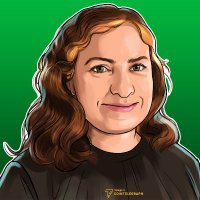
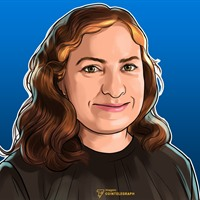
hello world deploy on day 2, getsecrets on use case 2 and Sol review

diff --git a/book/src/day-2/01-hello-confidential-workflows.md b/book/src/day-2/01-hello-confidential-workflows.md
@@ -2,7 +2,11 @@
 
 > Template source: [`cre-templates/starter-templates/hello-confidential-workflows`](https://github.com/smartcontractkit/cre-templates/tree/main/starter-templates/hello-confidential-workflows) (available in TypeScript and Go; the two implementations are behaviorally equivalent)
 
-Before we get into the theory of confidential computing, let's run the smallest possible Confidential Workflow end to end. It takes only 4 steps: clone the repo → configure the environment → simulate → (optionally) deploy.
+This is the smallest possible Confidential Workflow end to end, to be focused in the deploy part. It takes only 4 steps: 
+1. clone the repo
+2. configure the environment variables
+3. simulate
+4. deploy
 
 ## What This Workflow Does
 
@@ -23,24 +27,36 @@ Concretely, on every CRON tick the workflow:
 4. Scores the confidential response against `scoreThreshold` → verdict `APPROVE` / `REJECT`
 5. Crosses back to the DON with `usingTheDons()` and generates a signed report containing **only the verdict and score** — never the secret or the raw response body
 
-The default endpoint is `https://postman-echo.com/headers`, which echoes request headers back — no signup or real API key needed. The workflow uses it to confirm the secret really was injected inside the enclave, reported as the boolean `secret reached API: true` rather than by ever logging the token.
+The default endpoint is [`https://postman-echo.com/headers`](https://postman-echo.com/headers), which echoes request headers back — no signup or real API key needed. The workflow uses it to confirm the secret really was injected inside the enclave, reported as the boolean `secret reached API: true` rather than by ever logging the token.
 
-## Simulate the Workflow
+## Prepare the Workflow
 
 ### Step 1: Clone the Templates Repo
+
+We will use the TypeScript version.
 
 ```bash
 git clone https://github.com/smartcontractkit/cre-templates.git
 cd cre-templates/starter-templates/hello-confidential-workflows/hello-confidential-workflows-ts
 ```
 
-### Step 2: Set Up Environment Variables
+### Step 2: Install Dependencies
+
+```bash
+bun install --cwd ./my-workflow
+```
+
+### Step 3: Set Up Environment Variables
+
+Copy the example environment variables file to a new file named `.env`.
 
 ```bash
 cp .env.example .env
 ```
 
-Then set `SECRET_API_TOKEN` in `.env` — with the default echo endpoint, any non-empty value works. The `secrets.yaml` at the project root maps the workflow-facing secret ID to that environment variable:
+In this basic example, using the default echo endpoint, the `SECRET_API_TOKEN` in `.env` can be any non-empty value, it doesn't have to be a real API token.
+
+The `secrets.yaml` at the project root maps the workflow-facing secret ID to that environment variable:
 
 ```yaml
 secretsNames:
@@ -48,15 +64,11 @@ secretsNames:
         - SECRET_API_TOKEN
 ```
 
-> **Note**: In local simulation the CRE CLI injects secret values from `.env` according to this mapping. In a real deployment, the same secret ID (`API_TOKEN`) is resolved from the Vault DON instead — your workflow code doesn't change. That's why deployment requires an extra step (see below).
+> **Note**: In local simulation the CRE CLI injects secret values from `.env` according to this mapping. 
+> In a real deployment, the same secret ID (`API_TOKEN`) is resolved from the Vault DON instead — your workflow code doesn't change. 
+> Deployment requires an extra step, which will also be covered later.
 
-### Step 3: Install Dependencies
-
-```bash
-cd my-workflow && bun install && cd ..
-```
-
-### Step 4: Simulate
+## Simulate the Workflow
 
 From the project root, start the simulation with the CRE CLI:
 
@@ -87,21 +99,37 @@ You'll see output similar to:
 
 - The simulator confirms the TEE constraint it resolved (**AWS Nitro in us-west-2**) and warns that **it is not a real enclave** — logs are shown for debugging only; in real execution they never leave the TEE.
 - `secret reached API: true` means the Vault DON secret was fetched inside the enclave and arrived in the outbound request's `Authorization` header.
-- The verdict can flip between `APPROVE` and `REJECT` from run to run — the score derives from the live response body, and the echo endpoint includes a per-request trace ID. Lower `scoreThreshold` in `config.staging.json` to see `APPROVE` consistently.
+- The verdict can flip between `APPROVE` and `REJECT` from run to run — the score derives from the live response body, and the echo endpoint includes a per-request trace ID. 
+- Lower `scoreThreshold` in [`my-workflow/config.staging.json`]() to see `APPROVE` consistently.
 
 ## Deploy the Workflow
 
-Deployment takes 3 steps: add the secret to the Vault DON → deploy → verify. We'll use the **private registry** (authorized by your CRE login session — no wallet, no gas).
+Deployment takes 3 steps: 
+1. add the secret to the Vault DON
+2. deploy
+3. verify. 
+
+### Private Registry
+
+We'll use the **private registry** (authorized by your CRE login session — no wallet, no gas).
+
+The [private registry](https://docs.chain.link/cre/guides/operations/deploying-to-private-registry-ts) is a Chainlink-hosted, offchain workflow registry.
+
+All lifecycle operations (deploy, activate, pause, delete, update) are authorized by your CRE login session.
+You do not need to settup a wallet and there are no Ethereum Mainnet transactions and no gas fees for registry management.
 
 ### Step 1: Add the Secret to the Vault DON (Before Deploying!)
 
-A deployed workflow **cannot read your local `.env` file** — it fetches secrets from the Vault DON at runtime. So before deploying, you must store `API_TOKEN` in the Vault DON. Make sure `SECRET_API_TOKEN` is set in your `.env`, then run:
+A deployed workflow **cannot read your local `.env` file** — it fetches secrets from the Vault DON at runtime. 
+
+Before deploying, you must store `API_TOKEN` in the Vault DON. Execute the secret creation:
 
 ```bash
 cre secrets create secrets.yaml --target staging-settings --secrets-auth=browser
 ```
+> **Alert** Make sure `SECRET_API_TOKEN` is set in your `.env` before executing the command above!
 
-The CLI reads `secrets.yaml`, picks up the value from `SECRET_API_TOKEN` in `.env`, opens a browser window to authorize against the Vault DON with your CRE login session, and stores the secret. You'll see:
+The CLI reads `secrets.yaml`, picks up the value from `SECRET_API_TOKEN` in `.env`, opens a browser window to authorize against the Vault DON with your CRE login session, and stores the secret. When it's over, you'll see:
 
 ```bash
 Secret created: secret_id=API_TOKEN, owner=<your-organization-owner>, namespace=main
@@ -117,7 +145,11 @@ cre secrets list --target staging-settings --secrets-auth=browser
 
 ### Step 2: Deploy
 
-Add `deployment-registry: "private"` under `user-workflow` in `my-workflow/workflow.yaml`:
+Verify if the configuration file `workflow.yaml` is already prepared for deployment.
+
+Go to `staging-settings`, `user-workflow`.
+
+Add or update `deployment-registry: "private"`:
 
 ```yaml
 staging-settings:
@@ -126,7 +158,7 @@ staging-settings:
     deployment-registry: "private"
 ```
 
-Then deploy from the project root:
+Then **deploy** from the project root:
 
 ```bash
 cre workflow deploy my-workflow --target staging-settings
@@ -151,8 +183,17 @@ Details:
 
 ### Step 3: Verify and Manage
 
+Confirm it's registered and active:
+
 ```bash
-cre workflow list --registry private        # confirm it's registered and Active
+cre workflow list --registry private
+```
+
+You can also check it out on [CRE workflows](https://app.chain.link/cre/workflows)
+
+Manage your workflow:
+
+```bash
 cre workflow pause my-workflow --target staging-settings     # pause
 cre workflow activate my-workflow --target staging-settings  # resume
 cre workflow delete my-workflow --target staging-settings    # permanently remove
@@ -161,6 +202,14 @@ cre workflow delete my-workflow --target staging-settings    # permanently remov
 The workflow now runs on its CRON schedule: every execution happens inside a real enclave, fetches `API_TOKEN` from the Vault DON, and produces a DON-signed report.
 
 > ⚠ **Production reminder**: the template logs `Enclave computation complete. verdict=...` inside the enclave for debugging. Remove every `runtime.log()` inside the TEE handler before any real deployment — anything logged from within a Confidential Workflow could leak the data the enclave is meant to protect.
+
+### Clean up 
+
+This workflow is intended solely to cover the deployment process, so it is best practice to remove it after learning the process:
+
+```bash
+cre workflow delete my-workflow --target staging-settings
+```
 
 ## Key Takeaways
 
@@ -174,4 +223,4 @@ The workflow now runs on its CRON schedule: every execution happens inside a rea
 
 ## What's Next
 
-You've just run a Confidential Workflow — but why does it need an enclave, and what exactly stays confidential? Let's build that mental model properly: **Confidential Workflows: Why Confidential Computing**.
+You've just learned how to deploy a Confidential Workflow — now let´s go to the second use case: **Automated Liquidation Protection**.

diff --git a/book/src/day-2/04-liquidation-protection-code.md b/book/src/day-2/04-liquidation-protection-code.md
@@ -40,6 +40,22 @@ This is the case study's core design decision — **keep every policy parameter 
 export const onCronTrigger = async (runtime: TeeRuntime<Config>): Promise<string> => {
   const { mock_base_url, openai_url, openai_model, secrets_ids } = runtime.config;
 
+  const secrets = runtime
+    .getSecrets([
+      { id: secrets_ids.exchange_api_key_id },
+      { id: secrets_ids.openai_api_key_id },
+      { id: secrets_ids.liquidation_warning_action_threshold_secret_id },
+      { id: secrets_ids.minimum_health_factor_secret_id },
+      { id: secrets_ids.target_health_factor_secret_id },
+      { id: secrets_ids.maximum_stablecoin_reserve_deployment_secret_id },
+      { id: secrets_ids.minimum_stablecoin_reserve_balance_secret_id },
+      { id: secrets_ids.maximum_collateral_allocation_secret_id },
+      { id: secrets_ids.maximum_partial_debt_repayment_secret_id },
+      { id: secrets_ids.defensive_action_sequencing_preference_secret_id },
+      { id: secrets_ids.preferred_venues_secret_id },
+    ])
+    .result();
+
   // ① Two traditional credentials
   const exchangeApiKey = runtime.getSecret({ id: secrets_ids.exchange_api_key_id }).result().value;
   const openAiApiKey = runtime.getSecret({ id: secrets_ids.openai_api_key_id }).result().value;
@@ -54,6 +70,26 @@ export const onCronTrigger = async (runtime: TeeRuntime<Config>): Promise<string
     secrets_ids.minimum_health_factor_secret_id,
   );
   // ... target_health_factor, max/min reserve, collateral allocation cap, partial repayment cap ...
+  const targetHealthFactor = parseRequiredSecretNumber(
+    secrets[secrets_ids.target_health_factor_secret_id].value,
+    secrets_ids.target_health_factor_secret_id,
+  );
+  const maxStablecoinReserveDeployment = parseRequiredSecretNumber(
+    secrets[secrets_ids.maximum_stablecoin_reserve_deployment_secret_id].value,
+    secrets_ids.maximum_stablecoin_reserve_deployment_secret_id,
+  );
+  const minStablecoinReserveBalance = parseRequiredSecretNumber(
+    secrets[secrets_ids.minimum_stablecoin_reserve_balance_secret_id].value,
+    secrets_ids.minimum_stablecoin_reserve_balance_secret_id,
+  );
+  const maxCollateralAllocation = parseRequiredSecretNumber(
+    secrets[secrets_ids.maximum_collateral_allocation_secret_id].value,
+    secrets_ids.maximum_collateral_allocation_secret_id,
+  );
+  const maxPartialDebtRepayment = parseRequiredSecretNumber(
+    secrets[secrets_ids.maximum_partial_debt_repayment_secret_id].value,
+    secrets_ids.maximum_partial_debt_repayment_secret_id,
+  );
 
   // ③ Enum- and list-typed policies have dedicated parsers
   const defensiveSequencePreference = parseExecutionSequencePreference(
@@ -62,6 +98,8 @@ export const onCronTrigger = async (runtime: TeeRuntime<Config>): Promise<string
   const preferredVenues = parseVenueListSecret(
     runtime.getSecret({ id: secrets_ids.preferred_venues_secret_id }).result().value,
   );  // ["binance", "onchain", "coinbase"]
+
+  runtime.log("liquidation-getsecrets-ok");
 ```
 
 Why do it this way?

diff --git a/book/src/setup/welcome.md b/book/src/setup/welcome.md
@@ -4,28 +4,13 @@ Welcome to the **CRE Confidential Bootcamp: Build Confidential Workflows**!
 
 This is a two-day, hands-on bootcamp designed to give you a deep, developer-focused guide to building confidential computing workflows with the Chainlink Runtime Environment (CRE).
 
-## 🎤 Instructor
+## 🎤 Instructors
 
-### Frank Kong
-**Developer Relations Engineer, Chainlink Labs**
-
-<img src="../assets/instructor.png" alt="Instructor photo" width="200">
-
-X (Twitter): [@frank_chainlink](https://x.com/frank_chainlink)
-
-LinkedIn: [Frank Kong](https://www.linkedin.com/in/frank-kong-0a927785/)
-
-<img src="../assets/instructor_sol.jpg" alt="Instructor photo" width="200">
-
-X (Twitter): [@solangegueiros](https://twitter.com/solangegueiros)
-
-LinkedIn: [Solange Gueiros](https://www.linkedin.com/in/solangegueiros/)
-
-<img src="../assets/instructor_darby.jpeg" alt="Instructor photo" width="200">
-
-X (Twitter): [@darbease](https://x.com/darbease)
-
-LinkedIn: [Darby Martinez](https://www.linkedin.com/in/darby-martinez/)
+|  |  |
+|-------|------------|
+| <img src="../assets/instructor.png" alt="Frank Kong" width="180"> | **Frank Kong**<br>Developer Relations Engineer, Chainlink Labs<br><br>X (Twitter): [@frank_chainlink](https://x.com/frank_chainlink)<br>LinkedIn: [Frank Kong](https://www.linkedin.com/in/frank-kong-0a927785/) |
+| <img src="../assets/instructor_darby.jpeg" alt="Darby Martinez" width="180"> | **Darby Martinez**<br>Developer Relations Engineer, Chainlink Labs<br><br>X (Twitter): [@darbease](https://x.com/darbease)<br>LinkedIn: [Darby Martinez](https://www.linkedin.com/in/darby-martinez/) |
+| <img src="../assets/instructor_sol.jpg" alt="Solange Gueiros" width="180"> | **Solange Gueiros**<br>Developer Relations Manager (Education & Content), <br>Chainlink Labs<br><br>X (Twitter): [@solangegueiros](https://twitter.com/solangegueiros)<br>LinkedIn: [Solange Gueiros](https://www.linkedin.com/in/solangegueiros/)<br>[solange.dev](https://solange.dev/) |
 
 ## Schedule
 
@@ -44,8 +29,9 @@ Build a core understanding of CRE and confidential computing, and run your first
 
 ### 📅 Day 2: Hands-On — Automated Liquidation Protection (1.5 hours)
 
-No repeated fundamentals — we jump straight into the second complete case study:
+No repeated fundamentals — we jump straight into deploy instructions and the second complete case study:
 
+- Workflows in production: how to deploy a Hello World workflow
 - Finance primer: what liquidation is and how to prevent it
 - Case Study 2: Automated Liquidation Protection
   - Workflow flow and key code walkthrough

diff --git a/book/src/day-2/03-liquidation-protection-overview.md b/book/src/day-2/03-liquidation-protection-overview.md
@@ -1,6 +1,8 @@
 # Case Study 2: Automated Liquidation Protection Overview
 
-> Template source: [`cre-templates/starter-templates/confidential-workflows/automated-liquidation-protection`](https://github.com/smartcontractkit/cre-templates/tree/main/starter-templates/confidential-workflows/automated-liquidation-protection) (available in TypeScript and Go; the two implementations are behaviorally equivalent)
+> Template source: [`cre-templates/starter-templates/confidential-workflows/automated-liquidation-protection`](https://github.com/smartcontractkit/cre-templates/tree/main/starter-templates/confidential-workflows/automated-liquidation-protection)
+
+The template is available in TypeScript and Go; the two implementations are behaviorally equivalent. In this bootcamp we are using TypeScript.
 
 ## The Use Case: Confidential Automated Defense Before Liquidation
 
@@ -139,12 +141,14 @@ Same pattern as Case Study 1: an Express mock server simulates the external depe
 
 The built-in default risk snapshot is a position **already in the danger zone**:
 
-```
-Collateral: ETH $45,000   Debt: $32,000 USDC
-Health factor: 1.14       Liquidation proximity: 12% (warning line: 18%)
-LTV: 71% / threshold 78%  Volatility: 0.37
-USDC reserve: $10,000     Cash: $12,500
-```
+- Collateral: ETH $45,000
+- Debt: $32,000 USDC
+- Health factor: 1.14
+- Liquidation proximity: 12% (warning line: 18%)
+- LTV: 71% / threshold 78%
+- Volatility: 0.37
+- USDC reserve: $10,000
+- Cash: $12,500
 
 → Liquidation proximity of 12% has already breached the 18% warning line, so the workflow should **spring into action**.
 

diff --git a/book/src/day-2/06-wrap-up.md b/book/src/day-2/06-wrap-up.md
@@ -55,7 +55,7 @@ Does your workflow handle any of the following?
 - [Automated Portfolio Rebalancing](https://github.com/smartcontractkit/cre-templates/tree/main/starter-templates/confidential-workflows/automated-portfolio-rebalancing) — the third confidential template in this series, great self-study material
 - [CRE Templates Hub](https://docs.chain.link/cre-templates) — all official templates
 
-### Deploying to Production
+## Deploying to Production
 
 Local simulation is fully open; deploying a Confidential Workflow to run on a DON requires:
 
@@ -71,4 +71,9 @@ Local simulation is fully open; deploying a Confidential Workflow to run on a DO
 - [Subscribe to the developer newsletter](https://pages.chain.link/subscribe)
 - [Follow Chainlink on X](https://x.com/chainlink)
 
-🎉 **Congratulations on completing the CRE Confidential Bootcamp!** We can't wait to see the confidential computing applications you build.
+
+## Congratulations!
+
+🎉 **Congratulations on completing the CRE Confidential Bootcamp!** 🎉
+
+We can't wait to see the confidential computing applications you build.

diff --git a/book/src/day-1/03-ai-audit-firewall-overview.md b/book/src/day-1/03-ai-audit-firewall-overview.md
@@ -1,6 +1,8 @@
 # Case Study 1: AI Audit Firewall Overview
 
-> Template source: [`cre-templates/starter-templates/confidential-workflows/ai-audit-firewall`](https://github.com/smartcontractkit/cre-templates/tree/main/starter-templates/confidential-workflows/ai-audit-firewall) (available in TypeScript and Go; the two implementations are behaviorally equivalent)
+> Template source: [`cre-templates/starter-templates/confidential-workflows/ai-audit-firewall`](https://github.com/smartcontractkit/cre-templates/tree/main/starter-templates/confidential-workflows/ai-audit-firewall)
+
+The template is available in TypeScript and Go; the two implementations are behaviorally equivalent. In this bootcamp we are using TypeScript.
 
 ## The Use Case: A Confidential Pre-Execution Security Firewall
 

diff --git a/book/src/day-1/01-what-is-cre.md b/book/src/day-1/01-what-is-cre.md
@@ -139,4 +139,4 @@ For most applications that's fine. But if your workflow handles:
 
 ## What's Next
 
-Now that you understand the fundamentals of CRE, let's get hands-on right away: simulate and deploy your first Confidential Workflow — **Hello World** — and then we'll dive into how CRE achieves confidential computing through TEEs.
+Now that you understand the fundamentals of CRE, let's discover why **Confidential Computing** and then we'll dive into how CRE achieves confidential computing through TEEs.

diff --git a/book/src/setup/cre-cli-setup.md b/book/src/setup/cre-cli-setup.md
@@ -67,6 +67,8 @@ cre whoami
 
 If the `cre` command is not found after installation:
 
+#### macOS/Linux
+
 ```bash
 # Add to your shell config file (~/.bashrc, ~/.zshrc, etc.)
 export PATH="$HOME/.cre/bin:$PATH"
@@ -74,6 +76,10 @@ export PATH="$HOME/.cre/bin:$PATH"
 # Reload your shell
 source ~/.zshrc  # or ~/.bashrc
 ```
+
+#### Windows
+
+[Add the CLI to your PATH](https://docs.chain.link/cre/getting-started/cli-installation/windows#3-add-the-cli-to-your-path)
 
 ## What Can You Do Now?
 

diff --git a/book/src/setup/setup-instructions.md b/book/src/setup/setup-instructions.md
@@ -1,3 +1,5 @@
+A hands-on bootcamp for building confidential computing workflows with [**Chainlink Runtime Environment (CRE)**](https://docs.chain.link/cre).
+
 # 🖥 Environment Setup
 
 Please complete the following steps **before** the bootcamp to ensure a smooth learning experience.
